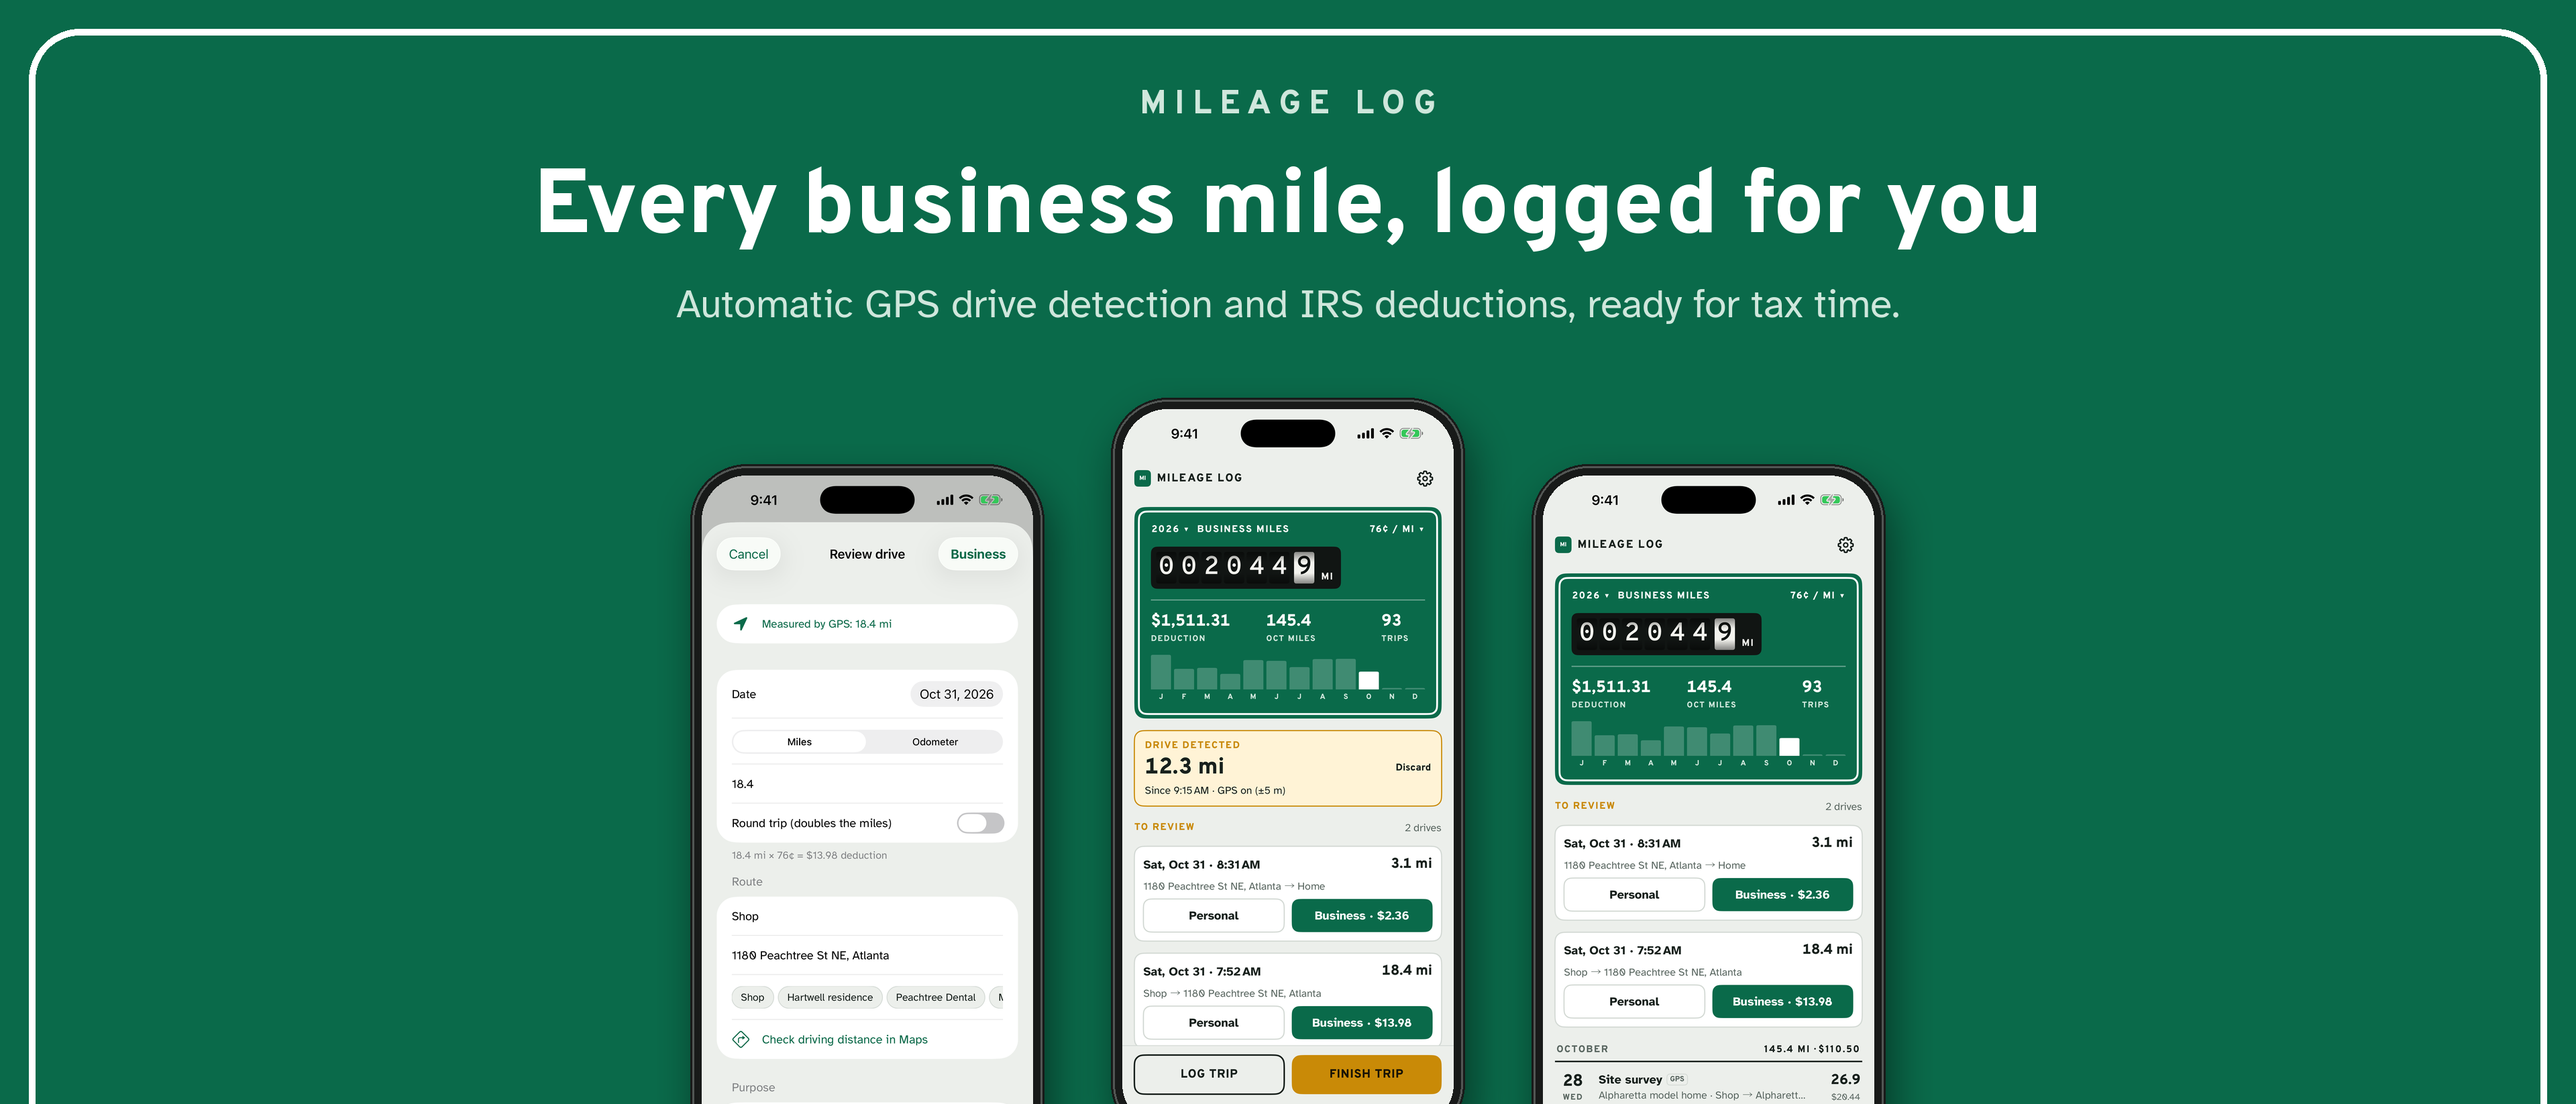
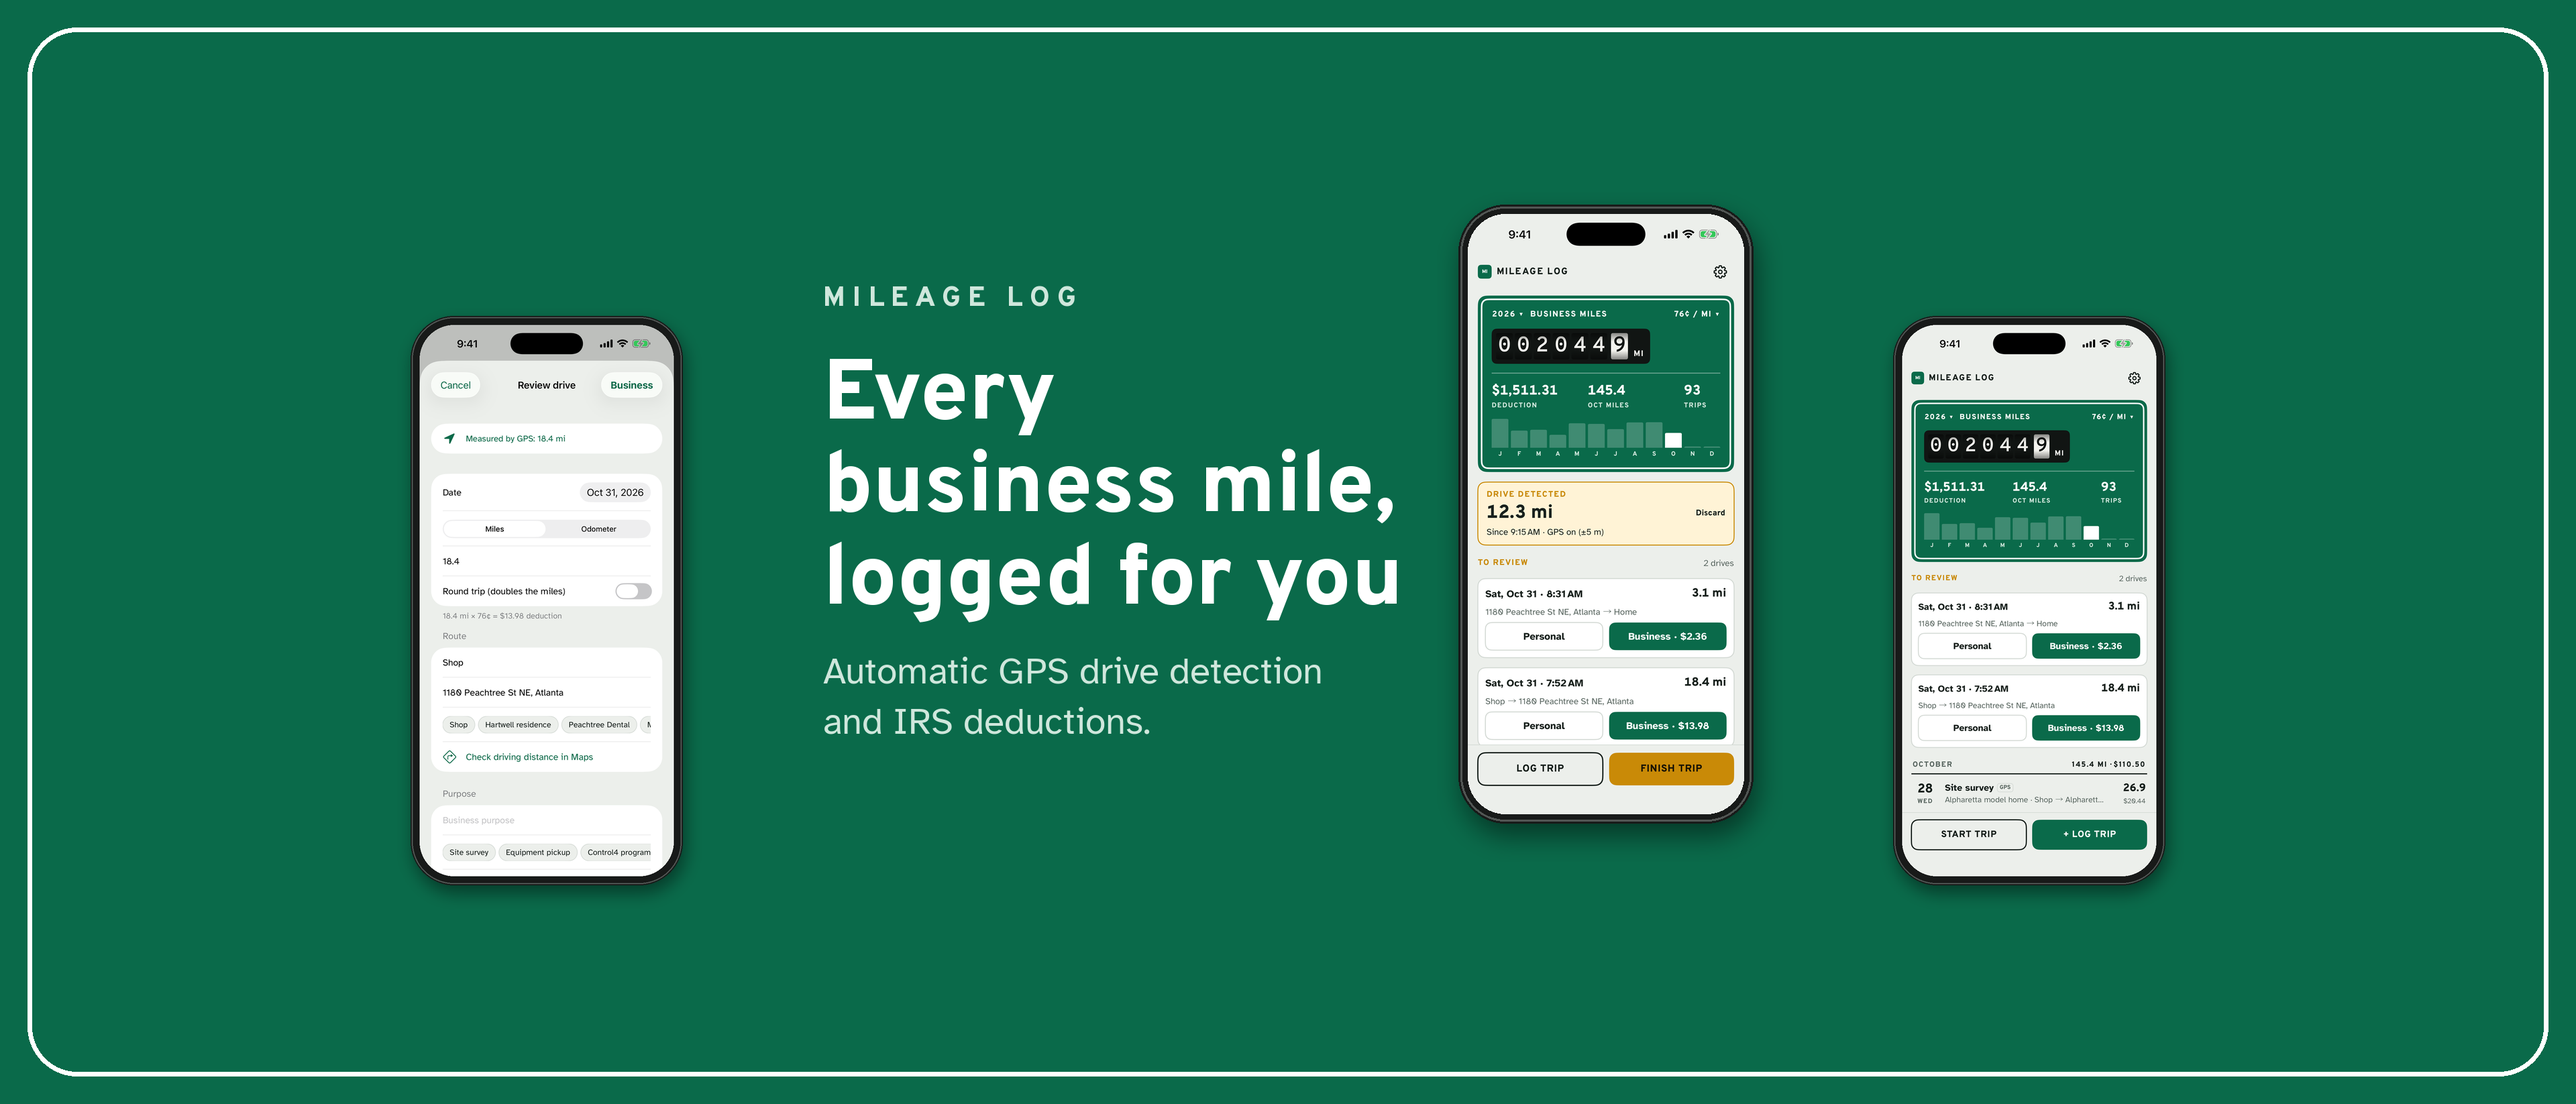
Header art: keep everything inside the search results crop
App Store Connect's search card shows only a 3:2 slice of the creative
asset (measured from its preview: x 29-71%, y 14-64%). The headline and
main phone now sit inside that slice; the side phones sit wholly outside
it, so search never shows anything cut off.

Claude-Session: https://claude.ai/code/session_01NV7369TV3DByZaPkANa13k

diff --git a/ios/store-listing/compose_header.py b/ios/store-listing/compose_header.py
@@ -1,8 +1,12 @@
-"""Landscape creative assets (product page header / search art) for App Store Connect.
+"""Landscape creative assets (product page header / search results art) for App Store Connect.
 
 Usage:  python3 ios/store-listing/compose_header.py <raw-dir> ios/store-listing/creative-assets
-Writes 5244 x 2950 and 3840 x 1646. Apple crops these differently per device, so the
-headline and phones stay centered with wide margins. Needs Pillow.
+Writes 5244 x 2950 and 3840 x 1646.
+
+The search results card shows only a 3:2 slice of this art: measured from App Store
+Connect's preview, x 29%-71% of the width and y 14%-64% of the height. Everything
+that matters (headline and phone) is placed inside that slice with a margin; the
+rest of the canvas is plain background, so any crop looks intentional. Needs Pillow.
 """
 import sys, os
 from PIL import Image, ImageDraw, ImageFont, ImageFilter
@@ -11,43 +15,92 @@ os.makedirs(OUT, exist_ok=True)
 FONTS = os.path.join(os.path.dirname(os.path.abspath(__file__)), "..", "MileageLog", "Fonts") + os.sep
 SIGN, BODY = FONTS + "Overpass-ExtraBold.ttf", FONTS + "AtkinsonHyperlegible-Regular.ttf"
 GREEN, SOFT, WHITE = (10, 106, 74), (207, 231, 220), (255, 255, 255)
-SHOTS = ["3-review", "2-drive-detected", "1-home"]   # left, center, right
-HEAD = "Every business mile, logged for you"
-SUB = "Automatic GPS drive detection and IRS deductions, ready for tax time."
+SAFE_X = (0.29, 0.71)      # search crop, fraction of width
+SAFE_TOP = 0.139           # search crop top, fraction of height (crop is 3:2)
+INSET = 0.07               # keep content this far inside the crop
+
+HEAD = ["Every", "business mile,", "logged for you"]
+SUB = ["Automatic GPS drive detection", "and IRS deductions."]
+SHOT = "2-drive-detected"
 
 def phone(shot, width):
     s = shot.convert("RGB"); h = round(s.height * width / s.width); s = s.resize((width, h), Image.LANCZOS)
     b = round(width * 0.035); R = round(width * 0.135)
     ph = Image.new("RGBA", (width + 2 * b, h + 2 * b), (0, 0, 0, 0)); d = ImageDraw.Draw(ph)
     d.rounded_rectangle([0, 0, ph.width - 1, ph.height - 1], radius=R + b, fill=(24, 26, 25, 255))
-    d.rounded_rectangle([3, 3, ph.width - 4, ph.height - 4], radius=R + b - 3, outline=(82, 86, 84, 255), width=max(3, width // 250))
+    d.rounded_rectangle([3, 3, ph.width - 4, ph.height - 4], radius=R + b - 3, outline=(82, 86, 84, 255), width=max(3, width // 200))
     m = Image.new("L", (width, h), 0); ImageDraw.Draw(m).rounded_rectangle([0, 0, width - 1, h - 1], radius=R, fill=255)
     ph.paste(s, (b, b), m)
     return ph
 
-def place(img, p, x, y, blur):
-    sh = Image.new("RGBA", (p.width + 4 * blur, p.height + 4 * blur), (0, 0, 0, 0))
-    sh.paste((0, 0, 0, 120), (2 * blur, 2 * blur), p.split()[3]); sh = sh.filter(ImageFilter.GaussianBlur(blur))
-    img.paste(sh, (x - 2 * blur + blur // 3, y - 2 * blur + blur), sh)
-    img.paste(p, (x, y), p)
-
 def make(W, H, name):
     img = Image.new("RGB", (W, H), GREEN); d = ImageDraw.Draw(img)
-    u = H / 1000                                  # layout unit
-    m = round(26 * u)
-    d.rounded_rectangle([m, m, W - m - 1, H + 400], radius=round(46 * u), outline=WHITE, width=max(4, round(6 * u)))
-    d.text((W / 2, 95 * u), "M I L E A G E   L O G", font=ImageFont.truetype(SIGN, round(30 * u)), fill=SOFT, anchor="mm")
-    d.text((W / 2, 150 * u), HEAD, font=ImageFont.truetype(SIGN, round(82 * u)), fill=WHITE, anchor="mt")
-    d.text((W / 2, 262 * u), SUB, font=ImageFont.truetype(BODY, round(36 * u)), fill=SOFT, anchor="mt")
-    pw = round(300 * u)                           # phone screen width
-    phones = [phone(Image.open(os.path.join(RAW, n + ".png")), pw) for n in SHOTS]
-    gap = round(60 * u); total = sum(p.width for p in phones) + 2 * gap
-    x = (W - total) // 2; top = round(360 * u)
-    for i, p in enumerate(phones):
-        y = top + (0 if i == 1 else round(60 * u))   # center phone sits higher
-        place(img, p, x, y, max(8, round(18 * u))); x += p.width + gap
-    img.save(os.path.join(OUT, name), optimize=True)
-    print("wrote", name, img.size)
+    # Crop box (3:2), then the content box inside it.
+    cx0, cx1 = W * SAFE_X[0], W * SAFE_X[1]; cw = cx1 - cx0; ch = cw / 1.5
+    cy0 = min(H * SAFE_TOP, H - ch); cy1 = cy0 + ch
+    x0, x1 = cx0 + cw * INSET, cx1 - cw * INSET
+    y0, y1 = cy0 + ch * INSET, cy1 - ch * INSET
+    bw, bh = x1 - x0, y1 - y0
+    u = bw / 1000                                   # content unit
 
-make(5244, 2950, "mileage-log-header-5244x2950.png")
-make(3840, 1646, "mileage-log-header-3840x1646.png")
+    # Sign border around the whole canvas (outside the crop, so search never shows it cut).
+    m = round(H * 0.025)
+    d.rounded_rectangle([m, m, W - m - 1, H - m - 1], radius=round(H * 0.045), outline=WHITE, width=max(4, round(H * 0.004)))
+
+    # Phone on the right, full height of the content box.
+    shot = Image.open(os.path.join(RAW, SHOT + ".png"))
+    ph_h = bh
+    screen_w = round(ph_h / (shot.height / shot.width + 0.07))
+    p = phone(shot, screen_w)
+    if p.height > bh: p = p.resize((round(p.width * bh / p.height), round(bh)), Image.LANCZOS)
+    px, py = round(x1 - p.width), round(y0 + (bh - p.height) / 2)
+    blur = max(8, round(14 * u))
+    sh = Image.new("RGBA", (p.width + 4 * blur, p.height + 4 * blur), (0, 0, 0, 0))
+    sh.paste((0, 0, 0, 120), (2 * blur, 2 * blur), p.split()[3]); sh = sh.filter(ImageFilter.GaussianBlur(blur))
+    img.paste(sh, (px - 2 * blur + blur // 3, py - 2 * blur + blur), sh)
+    img.paste(p, (px, py), p)
+
+    # Side phones fill the wide header but sit wholly outside the search crop, so search never cuts them.
+    side_w = round(W * (SAFE_X[0] - 0.08))          # room between the border and the crop
+    for side_shot, left in (("3-review", True), ("1-home", False)):
+        sp = phone(Image.open(os.path.join(RAW, side_shot + ".png")), round(side_w * 0.80))
+        limit = p.height * 0.92                     # a touch smaller than the main phone
+        if sp.height > limit: sp = sp.resize((round(sp.width * limit / sp.height), round(limit)), Image.LANCZOS)
+        gap = W * 0.025
+        sx = round(cx0 - gap - sp.width) if left else round(cx1 + gap)
+        sy = round(py + p.height * 0.18)            # lower than the main phone, still inside the border
+        sy = min(sy, round(H - m - H * 0.03 - sp.height))
+        sb = max(8, round(sp.width * 0.03))
+        shd = Image.new("RGBA", (sp.width + 4 * sb, sp.height + 4 * sb), (0, 0, 0, 0))
+        shd.paste((0, 0, 0, 110), (2 * sb, 2 * sb), sp.split()[3]); shd = shd.filter(ImageFilter.GaussianBlur(sb))
+        img.paste(shd, (sx - 2 * sb + sb // 3, sy - 2 * sb + sb), shd)
+        img.paste(sp, (sx, sy), sp)
+
+    # Text column on the left, vertically centered next to the phone.
+    col_w = px - x0 - 50 * u
+    def fit(lines, path, size):
+        while True:
+            f = ImageFont.truetype(path, round(size))
+            if max(d.textlength(l, font=f) for l in lines) <= col_w: return f
+            size *= 0.96
+    eb = fit(["M I L E A G E   L O G"], SIGN, 30 * u)
+    hf = fit(HEAD, SIGN, 104 * u)
+    sf = fit(SUB, BODY, 40 * u)
+    hs, ss = hf.size, sf.size
+    block = eb.size * 1.2 + 30 * u + len(HEAD) * hs * 1.08 + 30 * u + len(SUB) * ss * 1.35
+    y = y0 + (bh - block) / 2
+    d.text((x0, y), "M I L E A G E   L O G", font=eb, fill=SOFT); y += eb.size * 1.2 + 30 * u
+    for l in HEAD: d.text((x0, y), l, font=hf, fill=WHITE); y += hs * 1.08
+    y += 30 * u
+    for l in SUB: d.text((x0, y), l, font=sf, fill=SOFT); y += ss * 1.35
+
+    img.save(os.path.join(OUT, name), optimize=True)
+    print("wrote", name, img.size, "crop box", [round(cx0), round(cy0), round(cx1), round(cy1)])
+    return img, (cx0, cy0, cx1, cy1)
+
+out = {}
+out["5244"] = make(5244, 2950, "mileage-log-header-5244x2950.png")
+out["3840"] = make(3840, 1646, "mileage-log-header-3840x1646.png")
+if len(sys.argv) > 3:   # optional: write what the search card would show
+    for k, (img, box) in out.items():
+        img.crop(tuple(round(v) for v in box)).resize((900, 600), Image.LANCZOS).save(os.path.join(sys.argv[3], f"search-crop-{k}.png"))
